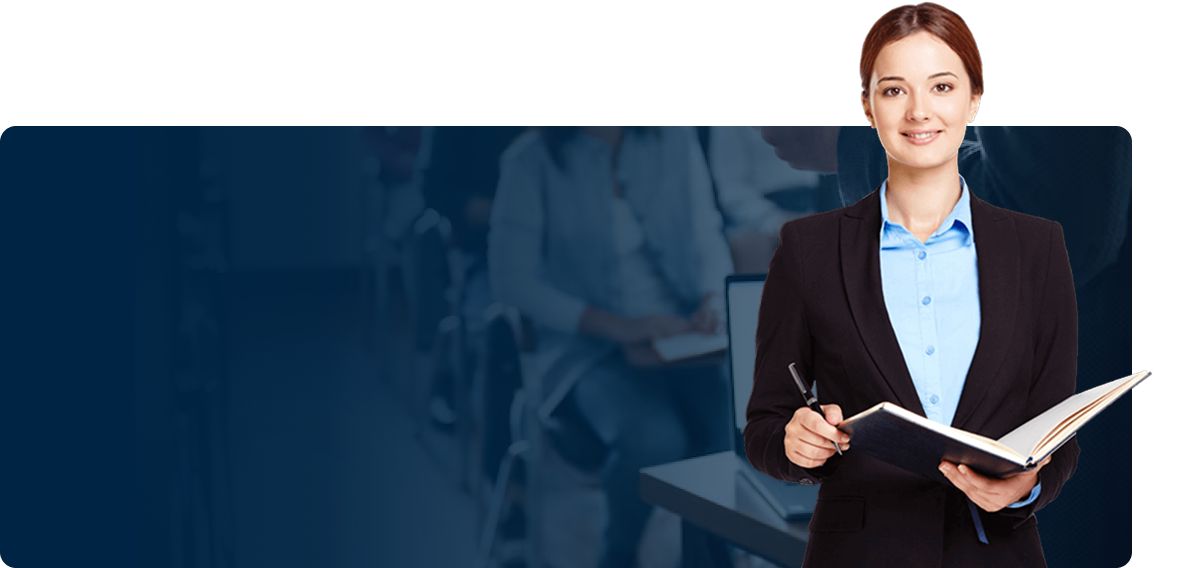
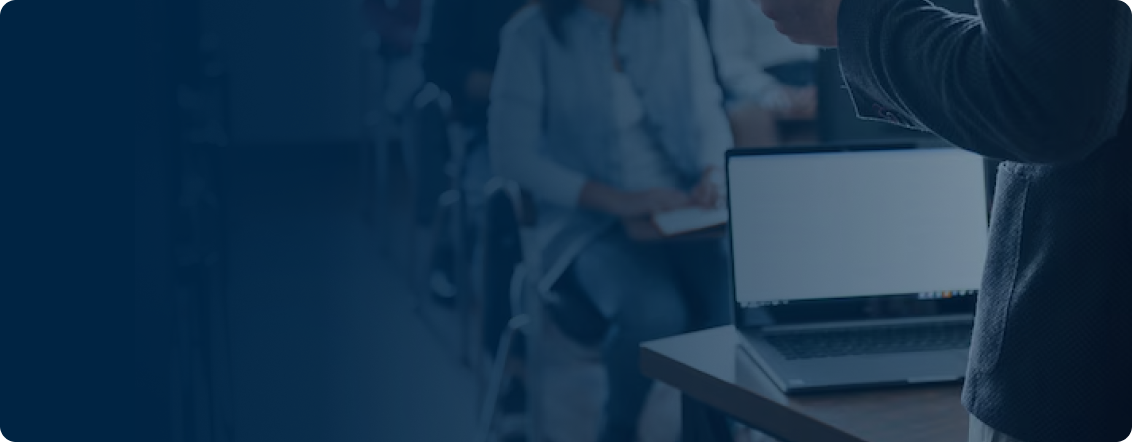
feat: update JoinOurPlatform and TrainingMeetsQuality components with new images and improved layout

diff --git a/src/app/(app)/home/JoinOurPlatform.tsx b/src/app/(app)/home/JoinOurPlatform.tsx
@@ -1,97 +1,98 @@
-import Image from "next/image";
+import Image from 'next/image'
+import cover1 from "../../../../public/home/cover1.png"
+import cover2 from "../../../../public/home/cover2.png"
+import cover3 from "../../../../public/home/cover3.png"
+import user from "../../../../public/home/user1.png"
 
-const platformCards = [
-    {
-        title: "Become a Trainer",
-        description: "Create, publish, and sell online",
-        buttonText: "Start Teaching",
-        image: "/home/cover1.png",
-    },
-    {
-        title: "Are you a school?",
-        description: "Publish your catalog and sell online.",
-        buttonText: "Get Accredited Now",
-        image: "/home/cover2.png",
-    },
-];
 
 const JoinOurPlatform = () => {
     return (
-        <div className="py-16 md:py-20 bg-linear-to-b from-white to-gray-50">
-            <div className="container mx-auto px-4">
-                {/* Heading */}
-                <div className="text-center mb-10 md:mb-24">
-                    <h2 className="text-2xl md:text-4xl font-bold text-header mb-3">
+        <section className="py-16 px-4">
+            <div className="container mx-auto">
+                {/* Header */}
+                <div className="text-center md:mb-28 mb-16">
+                    <h2 className="text-4xl font-bold text-gray-900 mb-3">
                         Join Our Platform
                     </h2>
-                    <p className="text-description text-base md:text-lg">
+                    <p className="text-gray-600 text-lg">
                         Opportunities for trainers, schools, and partners
                     </p>
                 </div>
 
-                {/* Top Two Cards */}
-                <div className="grid grid-cols-1 md:grid-cols-2 gap-6 mb-6">
-                    {platformCards.map((card, index) => (
-                        <div
-                            key={index}
-                            className="relative h-70 md:h-75 rounded-xl overflow-hidden group"
-                        >
-                            {/* Background Image */}
-                            <Image
-                                src={card.image}
-                                alt={card.title}
-                                fill
-                                className="object-cover"
-                            />
-
-                            {/* Content */}
-                            <div className="relative z-10 flex flex-col justify-end h-full p-6 md:p-8">
-                                <h3 className="text-xl md:text-2xl font-bold text-white mb-2">
-                                    {card.title}
-                                </h3>
-                                <p className="text-white text-sm md:text-base mb-4">
-                                    {card.description}
+                {/* Cards Grid */}
+                <div className="grid grid-cols-1 lg:grid-cols-2 gap-6 mb-6">
+                    {/* Become a Trainer Card */}
+                    <div className="relative h-85 rounded-2xl shadow-lg">
+                        <Image
+                            src={cover1}
+                            alt="Become a Trainer"
+                            fill
+                            className="object-cover brightness-90 group-hover:scale-105 transition-transform duration-300 rounded-2xl"
+                        />
+                        <Image src={user} alt="User" className='md:block hidden absolute right-0 bottom-2 scale-102' width={400}
+                         height={390}/>
+                        <div className="absolute inset-0 p-8 flex flex-col justify-center text-white">
+                            <div>
+                                <h3 className="text-2xl font-bold mb-2">Become a Trainer</h3>
+                                <p className="text-gray-200 mb-4">
+                                    Create, publish, and sell online
                                 </p>
-                                <div>
-                                    <button className="px-5 py-2.5 bg-main text-white rounded-lg text-sm font-semibold hover:bg-white hover:text-main transition-colors">
-                                        {card.buttonText}
-                                    </button>
-                                </div>
+                                <button className="px-8 py-3 bg-main text-white rounded-md text-sm font-semibold hover:bg-main/90 transition-colors">
+                                    Start Teaching
+                                </button>
                             </div>
                         </div>
-                    ))}
-                </div>
+                    </div>
 
-                {/* Bottom Full-Width Card */}
-                <div>
-                    <div className="relative h-55 md:h-62 rounded-xl overflow-hidden">
-                        {/* Background Image */}
+                    {/* Are you a school Card */}
+                    <div className="relative h-85 rounded-2xl shadow-lg">
                         <Image
-                            src="/home/cover3.png"
-                            alt="Become a Partner"
+                            src={cover2}
+                            alt="Are you a school"
                             fill
-                            className="object-cover"
+                            className="object-cover brightness-90 group-hover:scale-105 transition-transform duration-300 rounded-2xl"
                         />
 
-                        {/* Content */}
-                        <div className="relative z-10 flex flex-col justify-end h-full p-6 md:p-8">
-                            <h3 className="text-xl md:text-2xl font-bold text-white mb-2">
-                                Become a territorial orientation center
-                            </h3>
-                            <p className="text-white text-sm md:text-base mb-4">
-                                Be the reference point in your area by collaborating with institutions and trainers
-                            </p>
+                        <div className="absolute inset-0 p-8 flex flex-col justify-center text-white">
                             <div>
-                                <button className="px-5 py-2.5 bg-main text-white rounded-lg text-sm font-semibold hover:bg-white hover:text-main transition-colors">
-                                    Become a Partner
+                                <h3 className="text-2xl font-bold mb-2">Are you a school?</h3>
+                                <p className="text-gray-200 mb-4">
+                                    Publish your catalog and sell online.
+                                </p>
+                                <button className="px-8 py-3 bg-main text-white rounded-md text-sm font-semibold hover:bg-main/90 transition-colors">
+                                    Get Accredited Now
                                 </button>
                             </div>
                         </div>
                     </div>
                 </div>
-            </div>
-        </div>
-    );
-};
 
-export default JoinOurPlatform;
+                {/* Become a territorial orientation center Card - Full Width */}
+                <div className="relative h-85 rounded-2xl overflow-hidden group shadow-lg">
+                    <Image
+                        src={cover3}
+                        alt="Become a territorial orientation center"
+                        fill
+                        className="object-cover brightness-100 group-hover:scale-105 transition-transform duration-300"
+                    />
+
+                    <div className="absolute inset-0 p-8 flex flex-col justify-center text-white">
+                        <div>
+                            <h3 className="text-2xl font-bold mb-2">
+                                Become a territorial orientation center
+                            </h3>
+                            <p className="text-gray-200 mb-4">
+                                Be the reference point in your area by collaborating with institutions and trainers
+                            </p>
+                            <button className="px-8 py-3 bg-main text-white rounded-md text-sm font-semibold hover:bg-main/90 transition-colors">
+                                Become a Partner
+                            </button>
+                        </div>
+                    </div>
+                </div>
+            </div>
+        </section>
+    )
+}
+
+export default JoinOurPlatform

diff --git a/src/app/(app)/home/TrainingMeetsQuality.tsx b/src/app/(app)/home/TrainingMeetsQuality.tsx
@@ -1,26 +1,17 @@
 import Image from "next/image";
+import user from "../../../../public/home/user2.png";
 
 const TrainingMeetsQuality = () => {
     return (
-        <div className="relative w-full h-64 sm:h-72 md:h-80 lg:h-96 overflow-hidden bg-main">
-            {/* Background Image */}
-            <Image
-                src="/home/bg.jpg"
-                alt="Training Meets Quality"
-                fill
-                className="object-cover opacity-30"
-            />
-
-            {/* Person Image - positioned right */}
-            <div className="absolute right-[10%] md:right-[15%] bottom-0 hidden sm:block w-48 md:w-64 lg:w-80 h-full">
+        <div className="relative w-full py-10 bg-main">
+            
+           
                 <Image
-                    src="/home/user2.jpg"
+                    src={user}
                     alt="Student"
                     fill
-                    className="object-contain object-bottom"
+                    className="object-contain object-bottom scale-105 absolute right-0 bottom-7"
                 />
-            </div>
-
             {/* Content */}
             <div className="relative z-10 container mx-auto px-4 flex flex-col justify-center h-full">
                 <h2 className="text-3xl sm:text-4xl md:text-5xl font-bold text-white leading-tight mb-4">
@@ -34,7 +25,7 @@ const TrainingMeetsQuality = () => {
                     on a single platform.
                 </p>
                 <div>
-                    <button className="px-8 py-3 bg-white text-main rounded-lg text-sm font-semibold hover:bg-gray-100 transition-colors">
+                    <button className="px-12 py-3 bg-white text-main rounded-md text-[15px] font-semibold hover:bg-gray-100 transition-colors">
                         Join Us
                     </button>
                 </div>

diff --git a/src/app/(app)/home/Certificate.tsx b/src/app/(app)/home/Certificate.tsx
@@ -22,7 +22,7 @@ const Certificate = () => {
 
                     {/* Right Image */}
                     <div className="flex-1 w-full">
-                        <div className="relative w-138 h-64 sm:h-72 md:h-80 lg:h-96">
+                        <div className="relative md:w-138 h-64 sm:h-72 md:h-80 lg:h-96">
                             <Image
                                 src="/home/certificate.jpg"
                                 alt="Certificate"